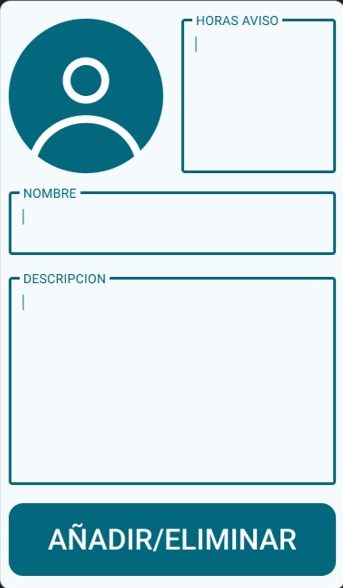
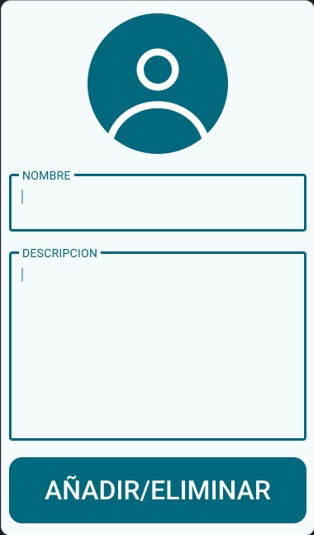
7 de julio

Changed region(s): [[0.0, 0.0, 1.0, 1.0], [0.9745, 0.8673, 1.0, 0.957], [0.9745, 0.9869, 1.0, 1.0]]

diff --git a/lib/pages/contactosficha.dart b/lib/pages/contactosficha.dart
@@ -1,0 +1,161 @@
+import 'package:flutter/material.dart';
+import 'package:image_picker/image_picker.dart';
+import 'dart:io';
+
+class ContactoFichaDialog extends StatefulWidget {
+  final String? nombreInicial;
+  final String? telefonoInicial;
+  final VoidCallback? onEliminar;
+  final void Function(String nombre, String telefono)? onGuardar;
+
+  const ContactoFichaDialog({
+    super.key,
+    this.nombreInicial,
+    this.telefonoInicial,
+    this.onEliminar,
+    this.onGuardar,
+  });
+
+  @override
+  State<ContactoFichaDialog> createState() => _ContactoFichaDialogState();
+}
+
+class _ContactoFichaDialogState extends State<ContactoFichaDialog> {
+  late TextEditingController nombreController;
+  late TextEditingController telefonoController;
+  File? _imagenSeleccionada;
+
+  @override
+  void initState() {
+    super.initState();
+    nombreController = TextEditingController(text: widget.nombreInicial ?? '');
+    telefonoController = TextEditingController(text: widget.telefonoInicial ?? '');
+  }
+
+  Future<void> _seleccionarImagen() async {
+    final picker = ImagePicker();
+    final pickedFile = await picker.pickImage(source: ImageSource.gallery);
+    if (pickedFile != null) {
+      setState(() {
+        _imagenSeleccionada = File(pickedFile.path);
+      });
+    }
+  }
+
+  @override
+  Widget build(BuildContext context) {
+    const mainColor = Color(0xFF197A89);
+
+    return Dialog(
+      backgroundColor: Colors.white,
+      shape: RoundedRectangleBorder(borderRadius: BorderRadius.circular(16)),
+      child: Padding(
+        padding: const EdgeInsets.all(24),
+        child: Column(
+          mainAxisSize: MainAxisSize.min,
+          children: [
+            // Icono de usuario
+            Container(
+              width: 140,
+              height: 140,
+              decoration: BoxDecoration(
+                color: mainColor,
+                borderRadius: BorderRadius.circular(32),
+              ),
+              child: InkWell(
+                borderRadius: BorderRadius.circular(32),
+                onTap: _seleccionarImagen,
+                child: _imagenSeleccionada == null
+                    ? const Center(
+                        child: Icon(Icons.person, color: Colors.white, size: 90),
+                      )
+                    : ClipRRect(
+                        borderRadius: BorderRadius.circular(32),
+                        child: Image.file(
+                          _imagenSeleccionada!,
+                          width: 140,
+                          height: 140,
+                          fit: BoxFit.cover,
+                        ),
+                      ),
+              ),
+            ),
+            const SizedBox(height: 24),
+            // Campo nombre
+            TextField(
+              controller: nombreController,
+              decoration: InputDecoration(
+                labelText: 'NOMBRE',
+                labelStyle: const TextStyle(color: mainColor, fontWeight: FontWeight.bold),
+                enabledBorder: OutlineInputBorder(
+                  borderSide: const BorderSide(color: mainColor, width: 2),
+                  borderRadius: BorderRadius.circular(6),
+                ),
+                focusedBorder: OutlineInputBorder(
+                  borderSide: const BorderSide(color: mainColor, width: 2.5),
+                  borderRadius: BorderRadius.circular(6),
+                ),
+                contentPadding: const EdgeInsets.symmetric(horizontal: 12, vertical: 12),
+              ),
+              cursorColor: mainColor,
+            ),
+            const SizedBox(height: 12),
+            // Campo teléfono
+            TextField(
+              controller: telefonoController,
+              decoration: InputDecoration(
+                labelText: 'TELÉFONO',
+                labelStyle: const TextStyle(color: mainColor, fontWeight: FontWeight.bold),
+                enabledBorder: OutlineInputBorder(
+                  borderSide: const BorderSide(color: mainColor, width: 2),
+                  borderRadius: BorderRadius.circular(6),
+                ),
+                focusedBorder: OutlineInputBorder(
+                  borderSide: const BorderSide(color: mainColor, width: 2.5),
+                  borderRadius: BorderRadius.circular(6),
+                ),
+                contentPadding: const EdgeInsets.symmetric(horizontal: 12, vertical: 12),
+              ),
+              cursorColor: mainColor,
+              keyboardType: TextInputType.phone,
+            ),
+            const SizedBox(height: 24),
+            // Botón añadir/eliminar
+            SizedBox(
+              width: double.infinity,
+              height: 56,
+              child: ElevatedButton(
+                style: ElevatedButton.styleFrom(
+                  backgroundColor: mainColor,
+                  shape: RoundedRectangleBorder(
+                    borderRadius: BorderRadius.circular(12),
+                  ),
+                  elevation: 6,
+                  shadowColor: Colors.black26,
+                ),
+                onPressed: () {
+                  if (widget.onGuardar != null) {
+                    widget.onGuardar!(
+                      nombreController.text,
+                      telefonoController.text,
+                    );
+                  }
+                  Navigator.of(context).pop();
+                },
+                child: const Text(
+                  'GUARDAR',
+                  style: TextStyle(
+                    color: Colors.white,
+                    fontSize: 20,
+                    fontWeight: FontWeight.bold,
+                    letterSpacing: 1.2,
+                  ),
+                ),
+              ),
+            ),
+          ],
+        ),
+      ),
+    );
+  }
+}

diff --git a/lib/pages/contactos_page.dart b/lib/pages/contactos_page.dart
@@ -1,16 +1,131 @@
 import 'package:flutter/material.dart';
+import 'contactosficha.dart'; // Asegúrate de importar tu widget de ficha
+import 'dart:async';
 
-class ContactosPage extends StatelessWidget {
+class ContactosPage extends StatefulWidget {
   const ContactosPage({super.key});
+
+  @override
+  State<ContactosPage> createState() => _ContactosPageState();
+}
+
+class _ContactosPageState extends State<ContactosPage> {
+  final Color mainColor = const Color(0xFF197A89);
+
+  List<Map<String, dynamic>> contactos = List.generate(
+    6,
+    (_) => {'nombre': 'nombre', 'imagen': null},
+  );
+
+
 
   @override
   Widget build(BuildContext context) {
     return Scaffold(
-      appBar: AppBar(
-        title: const Text('Contactos'),
-      ),
-      body: const Center(
-        child: Text('Página de Contactos'),
+      backgroundColor: Colors.white,
+      body: SafeArea(
+        child: Column(
+          children: [
+            Padding( // Header
+              padding: const EdgeInsets.all(24),
+              child: Row(
+                children: [
+                  Expanded(
+                    
+                    child: Container(
+                      padding: const EdgeInsets.symmetric(vertical: 16, horizontal: 40),
+                      decoration: BoxDecoration(
+                        color: mainColor,
+                        borderRadius: BorderRadius.circular(16),
+                      ),
+                      child: Row(
+                        mainAxisAlignment: MainAxisAlignment.spaceBetween,
+                        children: [
+                          const Text(
+                            'CONTACTOS',
+                            style: TextStyle(
+                              color: Colors.white,
+                              fontWeight: FontWeight.bold,
+                              fontSize: 24,
+                              letterSpacing: 2,
+                            ),
+                          ),
+                          const Icon(Icons.person, color: Colors.white, size: 40),
+                        ],
+                      ),
+                    ),
+                  ),
+                ],
+              ),
+            ),
+            SizedBox(height: 32),
+
+            Expanded( // Grid de contactos
+              child: Padding(
+                padding: const EdgeInsets.symmetric(horizontal: 24),
+                child: GridView.builder(
+                  itemCount: contactos.length,
+                  gridDelegate: const SliverGridDelegateWithFixedCrossAxisCount(
+                    crossAxisCount: 2,
+                    mainAxisSpacing: 16,
+                    crossAxisSpacing: 16,
+                    childAspectRatio: 1.1,
+                  ),
+                  itemBuilder: (context, index) {
+                    return Column(
+                      children: [
+                        GestureDetector(
+                          onLongPress: () {
+                            Timer(const Duration(seconds: 2), () {
+                              showDialog(
+                                context: context,
+                                builder: (context) => ContactoFichaDialog(
+                                  nombreInicial: contactos[index]['nombre'] ?? '',
+                                  telefonoInicial: contactos[index]['telefono'] ?? '',
+                                  onGuardar: (nombre, telefono) {
+                                    setState(() {
+                                      contactos[index]['nombre'] = nombre;
+                                      contactos[index]['telefono'] = telefono;
+                                    });
+                                  },
+                                  onEliminar: () {
+                                    setState(() {
+                                      contactos.removeAt(index);
+                                    });
+                                    Navigator.of(context).pop();
+                                  },
+                                ),
+                              );
+                            });
+                          },
+                          child: CircleAvatar(
+                            radius: 60,
+                            backgroundColor: mainColor,
+                            backgroundImage: contactos[index]['imagen'] != null
+                                ? FileImage(contactos[index]['imagen'])
+                                : null,
+                            child: contactos[index]['imagen'] == null
+                                ? const Icon(Icons.person, color: Colors.white, size: 80)
+                                : null,
+                          ),
+                        ),
+                        const SizedBox(height: 8),
+                        Text(
+                          contactos[index]['nombre'],
+                          style: TextStyle(
+                            color: mainColor,
+                            fontSize: 24,
+                            fontWeight: FontWeight.bold,
+                          ),
+                        ),
+                      ],
+                    );
+                  },
+                ),
+              ),
+            ),
+          ],
+        ),
       ),
     );
   }
